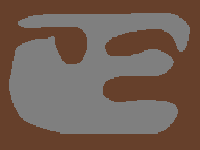
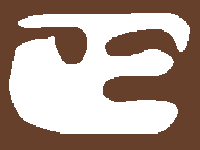
finally got png pixels

diff --git a/src/Components/GameLoader/index.tsx b/src/Components/GameLoader/index.tsx
@@ -1,25 +1,46 @@
 import { useEffect, useState } from 'react';
 import * as PIXI from 'pixi.js';
-import * as Sprites from './../../Game/sprites';
+import sprites from './../../Game/sprites';
+import collision from '../../Game/collision';
+import level from '../../Game/level';
 
 function GameLoader(props: any): JSX.Element {
   const [loadingComplete, setLoadingComplete] = useState(false);
 
   useEffect(() => {
-    console.log('Starting loader...');
+    console.log('Loading resources...');
 
     const loader = new PIXI.Loader();
     loader.add('antDefault', 'gfx/ant.png');
     loader.add('level1Background', 'gfx/map-test-2.png');
-    loader.load((_, resources: any) => {
-      Sprites.default.antDefault = new PIXI.Sprite(resources.antDefault.texture);
-      Sprites.default.level1Background = new PIXI.Sprite(resources.level1Background.texture);
 
+    loader.load((_, resources: any) => {
+      const levelData = getImageData('gfx/map-test-2.png');
+      const total = levelData.w * levelData.h;
+      collision.level = new Uint8Array(total);
+      for (let idx = 0; idx < total; idx += 4) {
+        let a = levelData.pixels[idx + 3];
+        collision.level[idx / 4] = a;
+      }
+      console.log(collision.level);
+
+      sprites.antDefault = new PIXI.Sprite(resources.antDefault.texture);
+      sprites.level1Background = new PIXI.Sprite(resources.level1Background.texture);
       console.log('Loading complete.');
 
-      setLoadingComplete(true);
+      // setLoadingComplete(true);
     });
   }, []);
+
+  function getImageData(url: string): { pixels: Uint8Array; w: number; h: number } {
+    var img = new Image();
+    img.src = url;
+    var canvas = document.createElement('canvas');
+    var context: any = canvas.getContext('2d');
+    context.drawImage(img, 0, 0);
+    var data = context.getImageData(0, 0, img.width, img.height).data;
+    return { pixels: data, w: img.width, h: img.height };
+  }
 
   const loading = <div>Loading...</div>;
   const main = <>{props.children}</>;

diff --git a/src/Game/level.ts b/src/Game/level.ts
@@ -14,37 +14,6 @@ export class level {
     public loadLevel() {
         var levelDef = Level1
         this.backgroundSprite = PIXI.Sprite.from(levelDef.path)
-        const collW = globals.collW;
-        const collH = globals.collH;
-
-        let pixArray = game.app.renderer.plugins.extract.pixels(this.backgroundSprite)
-
-        let val = pixArray.reduce((prev: number, i: number) => prev + i, 0)
-        console.log("val: " + val)
-
-        this.backgroundSprite.width = globals.sceneW
-        this.backgroundSprite.height = globals.sceneH
-        this.collMap = new Uint8Array(globals.collW * globals.collH)
-        for (let y = 0; y < collH; ++y)
-        {
-            for (let x = 0; x < collW; ++x)
-            {
-                let idx = y * collW + x;
-                let r = pixArray[idx + 0]
-                let g = pixArray[idx + 1]
-                let b = pixArray[idx + 2]
-                this.collMap[idx] = 128;
-            }
-        }
-
-        let b = new PIXI.BufferResource(this.collMap, { width: collW, height: collH })
-        let bt = new PIXI.BaseTexture(b);
-        bt.format = WebGLRenderingContext.LUMINANCE
-        let t = new PIXI.Texture(bt)
-
-        this.backgroundSprite = PIXI.Sprite.from(t)
-
-        console.log(this.collMap.length)
 
         level.homeX = levelDef.homeX
         level.homeY = levelDef.homeY

diff --git a/src/Game/collision.ts b/src/Game/collision.ts
@@ -1,0 +1,5 @@
+class collision {
+    static level: Uint8Array
+}
+
+export default collision
